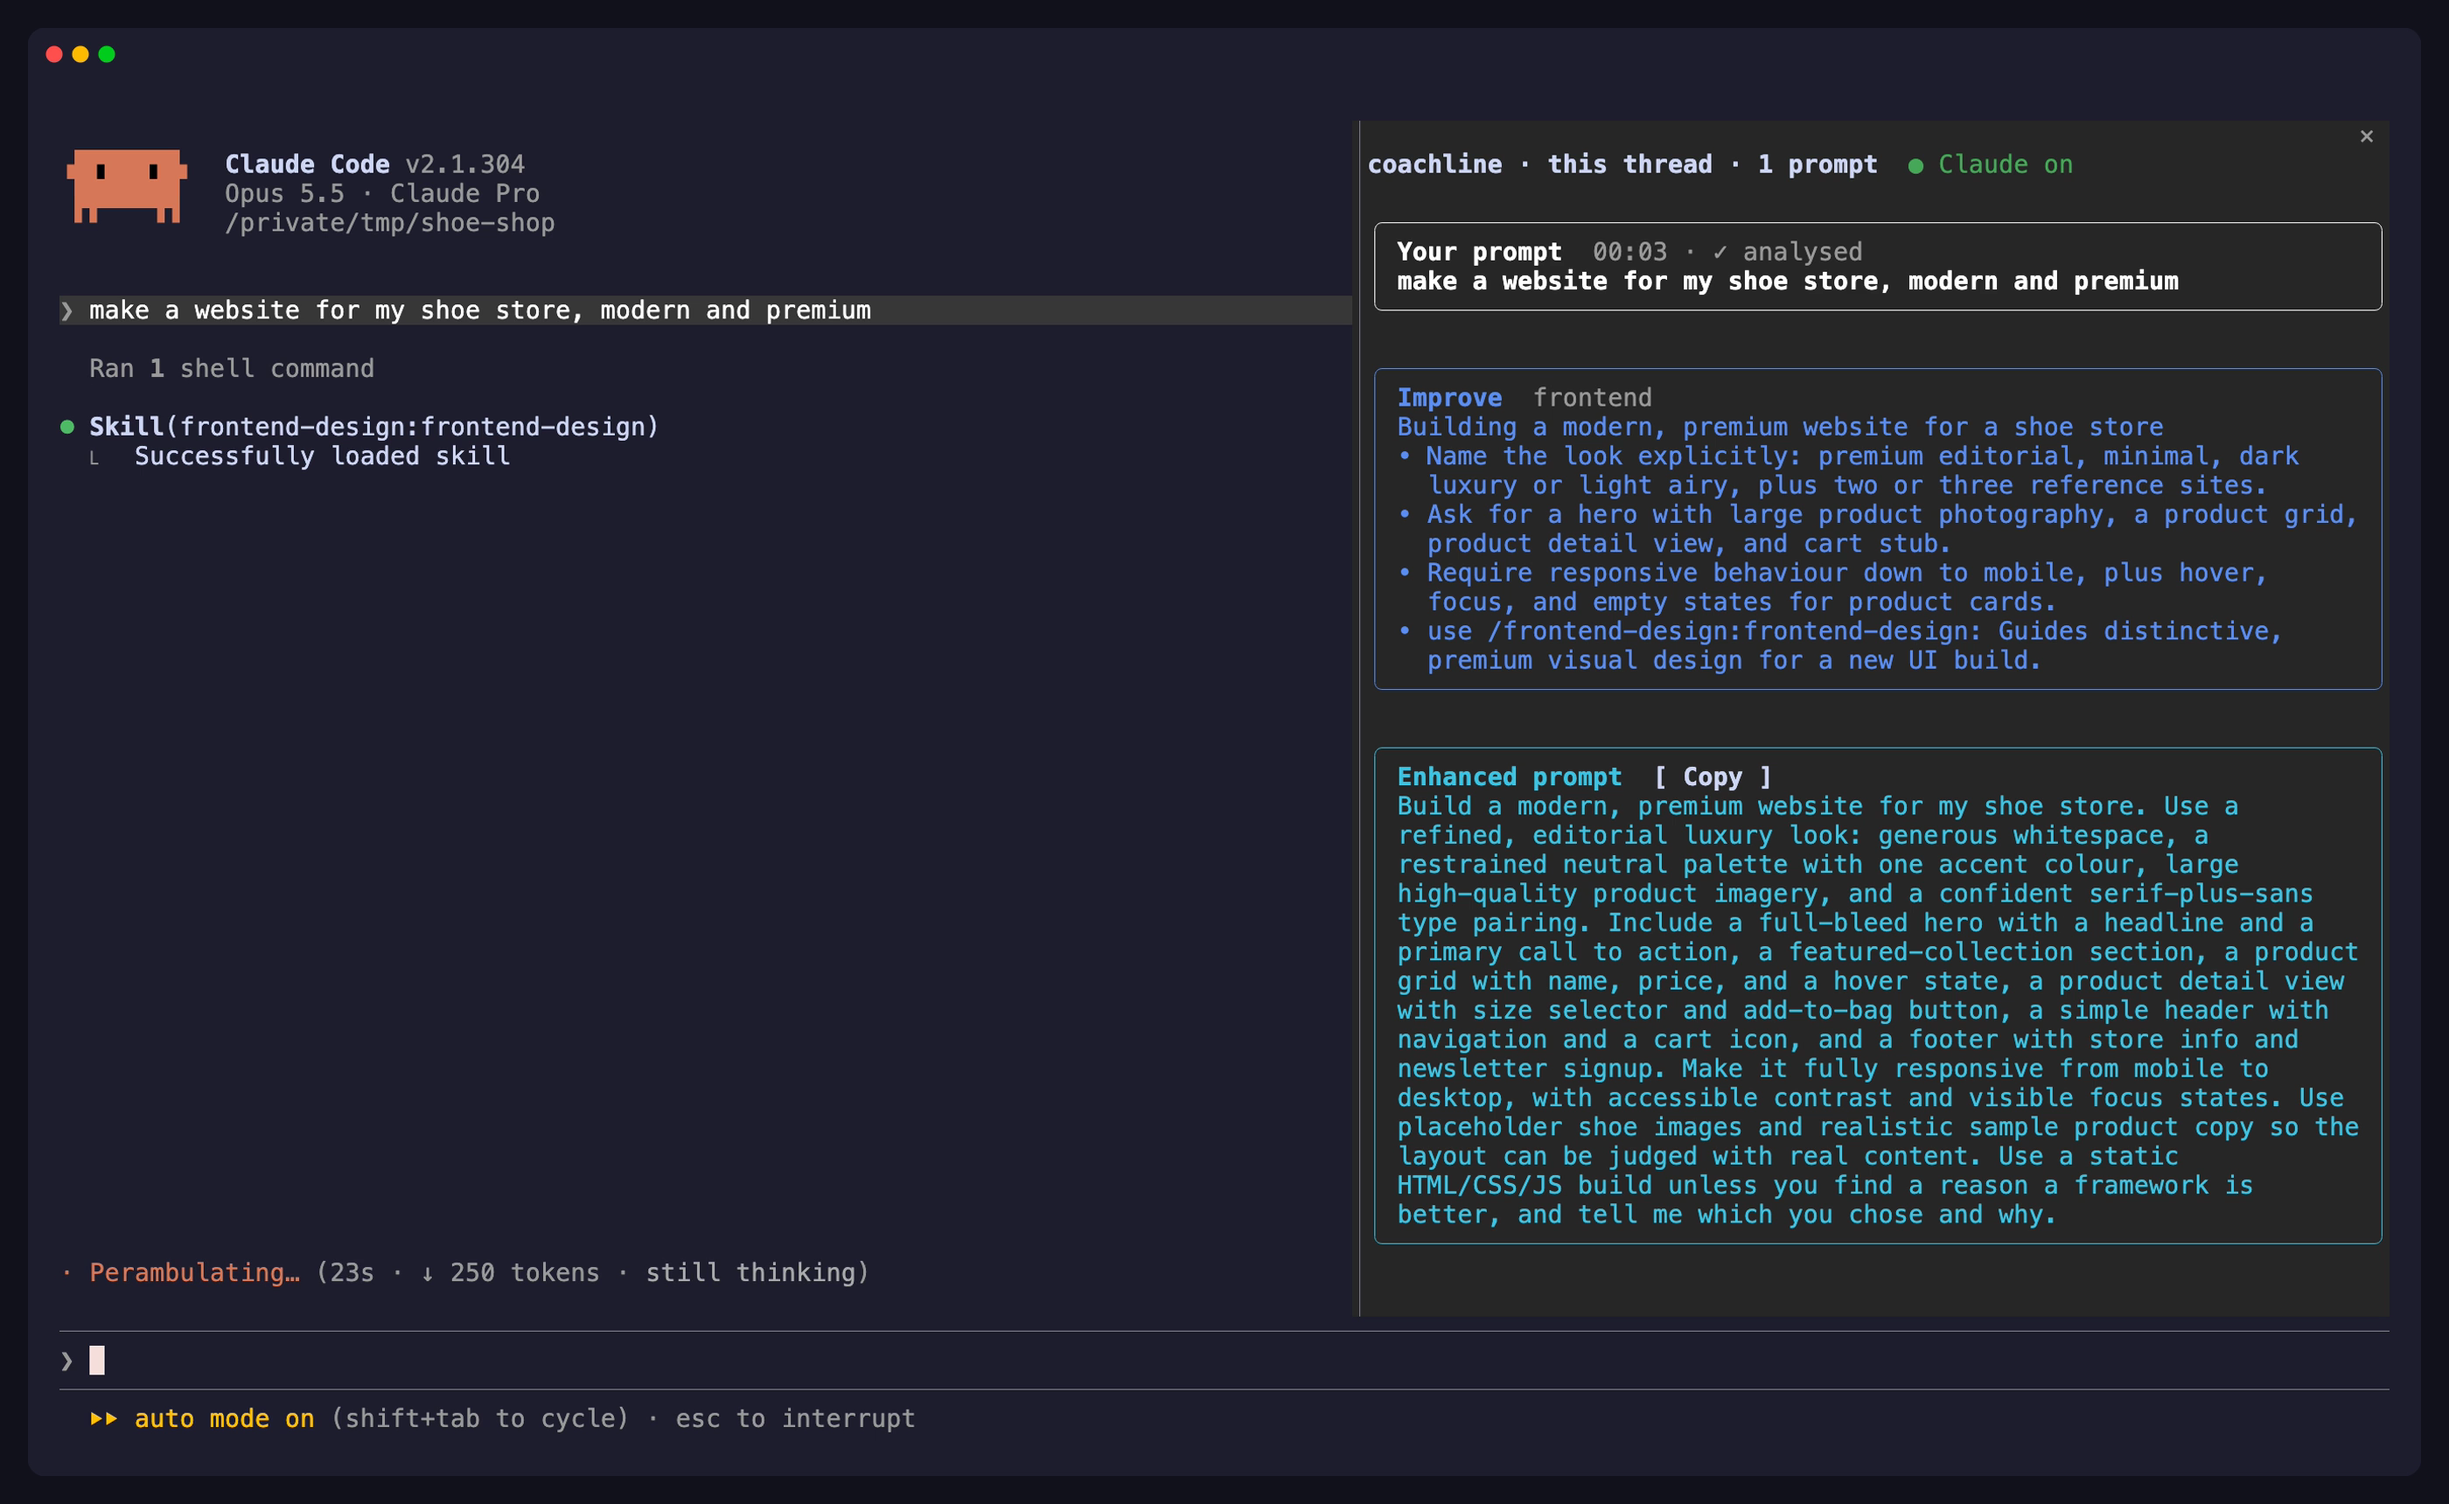
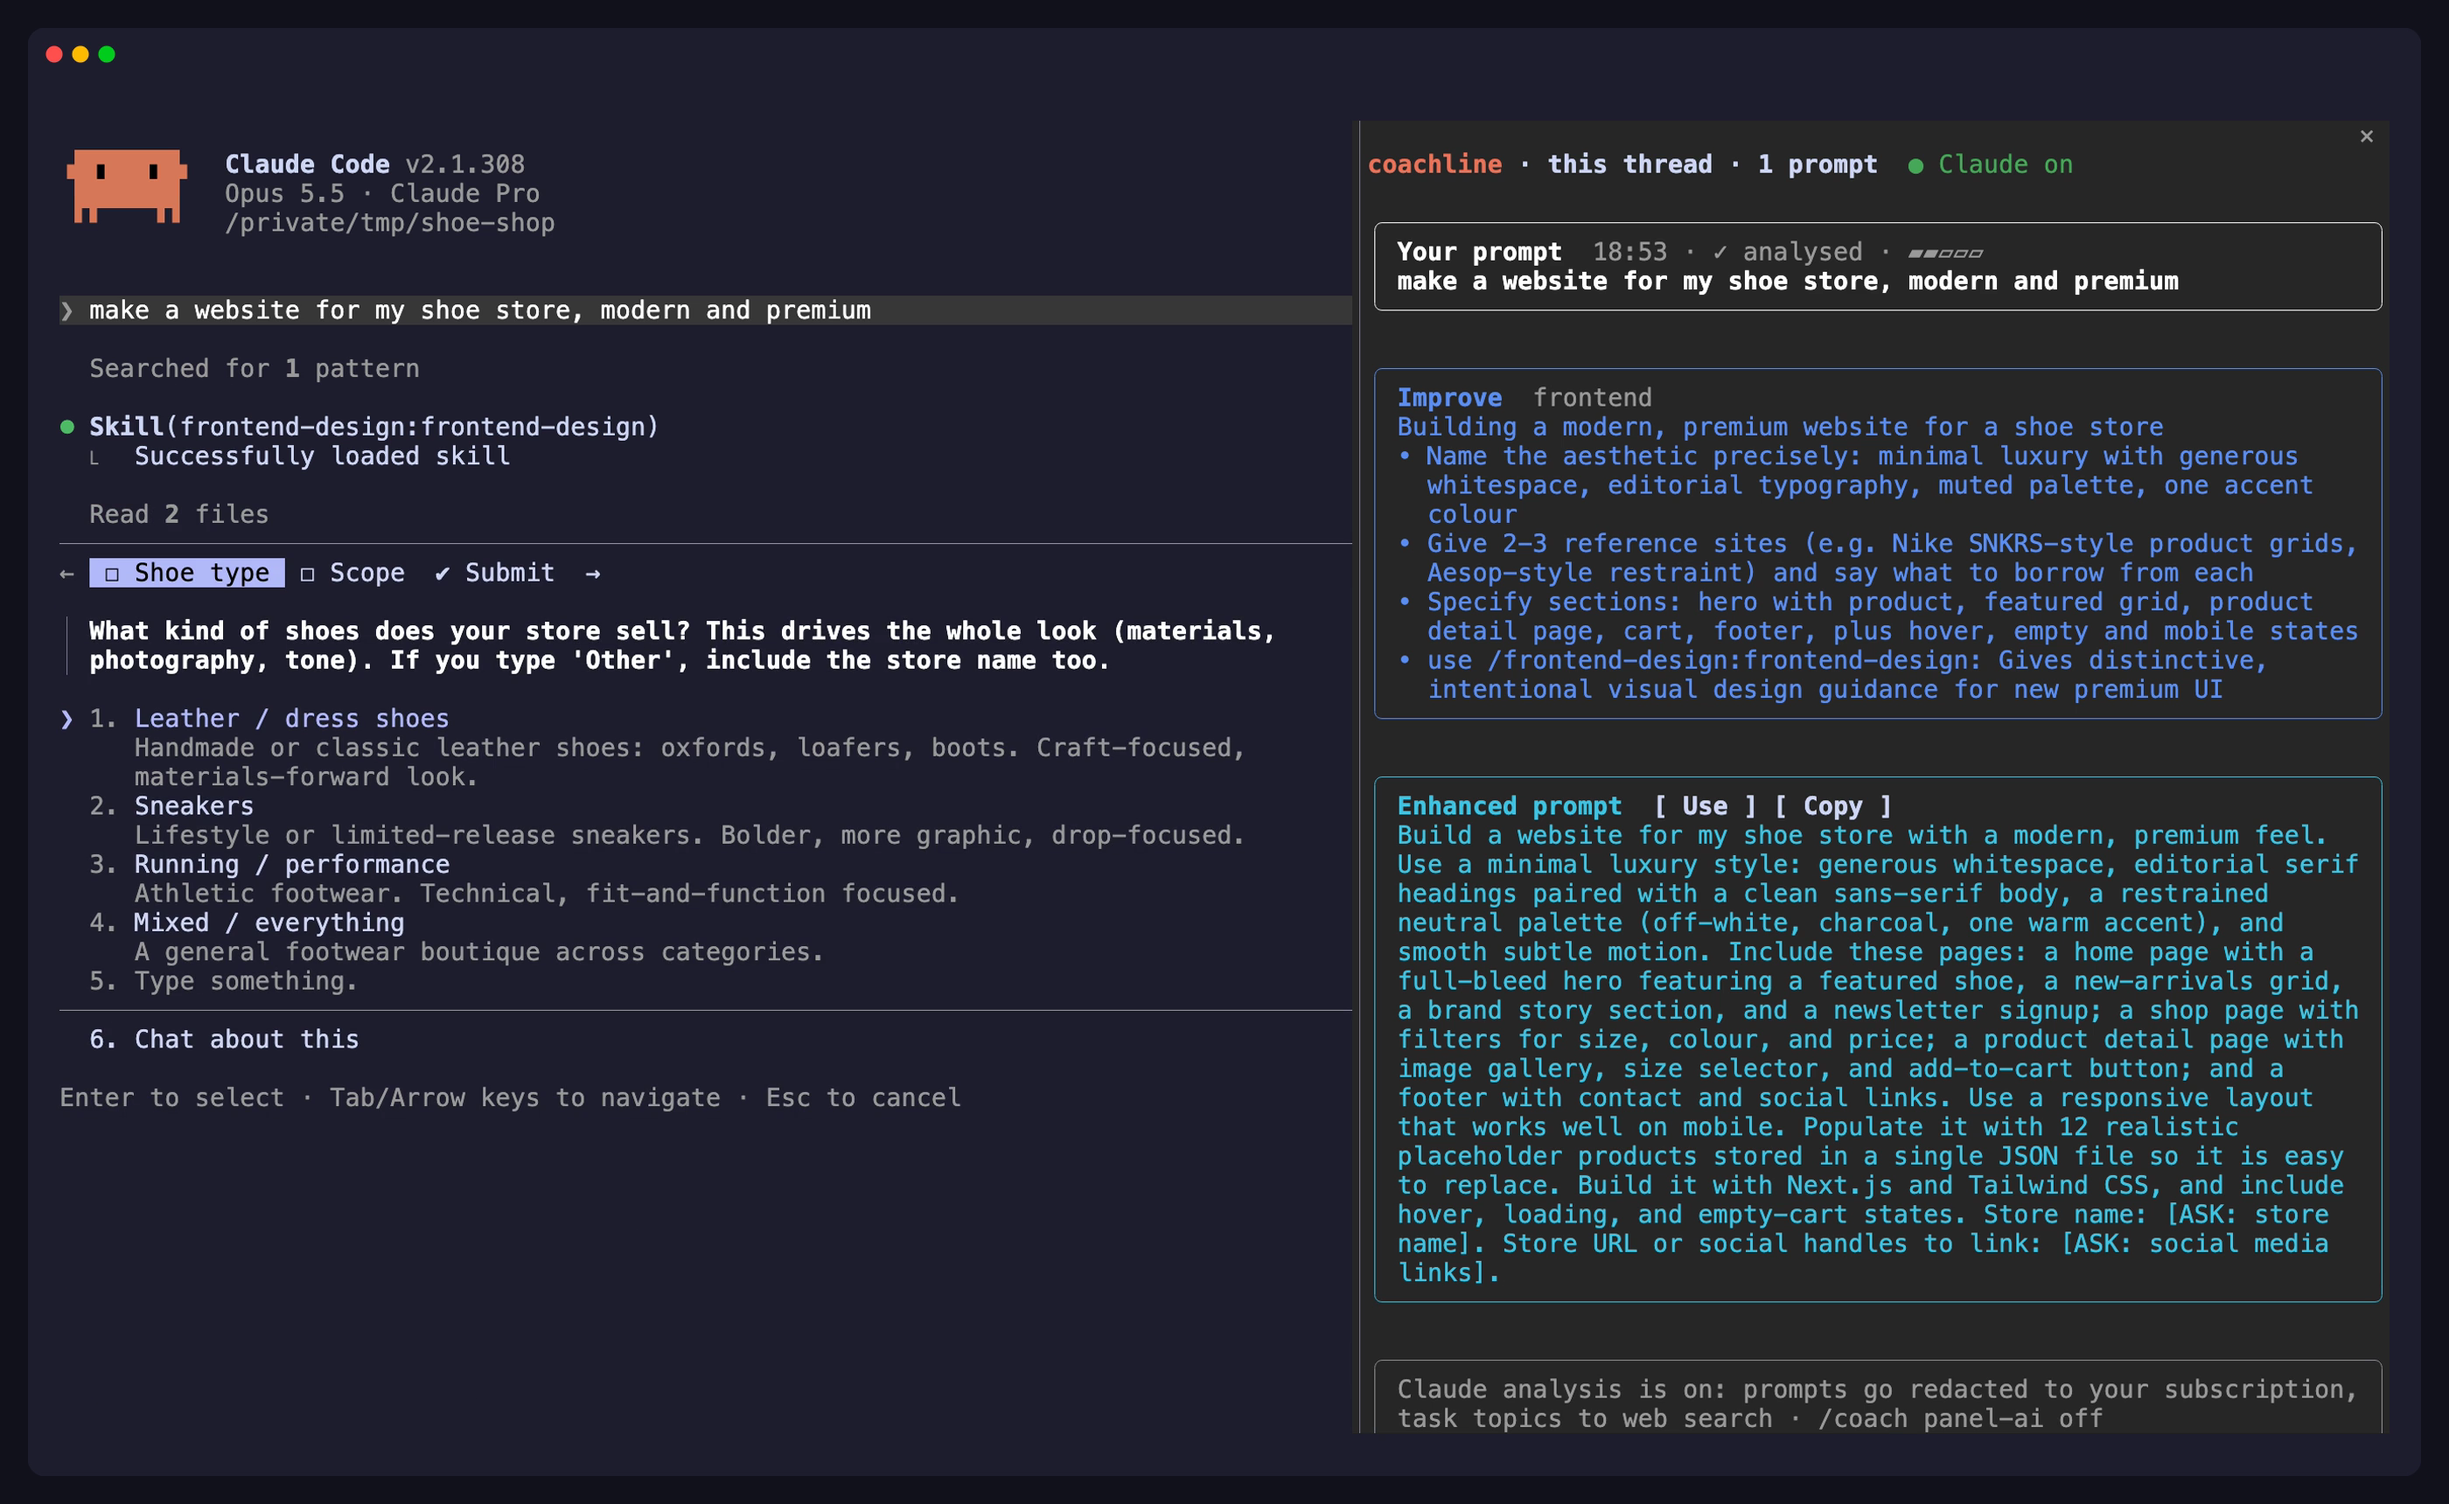
docs: GIFs and screenshots recorded on macOS for 0.18–0.21

diff --git a/README.md b/README.md
@@ -63,9 +63,18 @@ For a new task, coachline names the **skills and plugins** you have that fit, th
 ### 4 · Keep what works
 
 - **Use** puts the enhanced prompt in your prompt box with its `[ASK: …]` gaps in bold. You fill them and send; nothing is sent for you.
+
+  <img src="docs/assets/use.gif" alt="Pressing Use in the coachline panel puts the enhanced prompt in Claude Code's prompt box, its [ASK] gap in bold, without sending it" width="100%">
+
 - **A hint as you type**: pause, and the line under the box shows how concrete your draft is (`▰▰▱▱▱`) and the one thing it lacks most.
+
+  <img src="docs/assets/hint.gif" alt="Typing &quot;fix it now please&quot; shows an empty meter and what the draft lacks under the prompt box; naming the file and when it is done fills the meter" width="100%">
+
 - **Evidence**: coachline notes when you stop a turn or say "no, I meant…", and shows how often vague prompts led to rework compared with concrete ones.
 - **Library**: a prompt that worked first time is kept. Type something like it later and you are told so; the Library puts it back in the box.
+
+  <img src="docs/assets/library.gif" alt="In the standalone panel, l opens the Library of three saved prompts, one is chosen and copied, and l goes back to the card" width="100%">
+
 - **Hold**, if you turn it on: a clearly vague prompt stops at Enter with what it lacks. Enter again sends it as is.
 
 All of it is worked out on your machine. More on the [website](https://teransarathchandra.github.io/coachline/).
